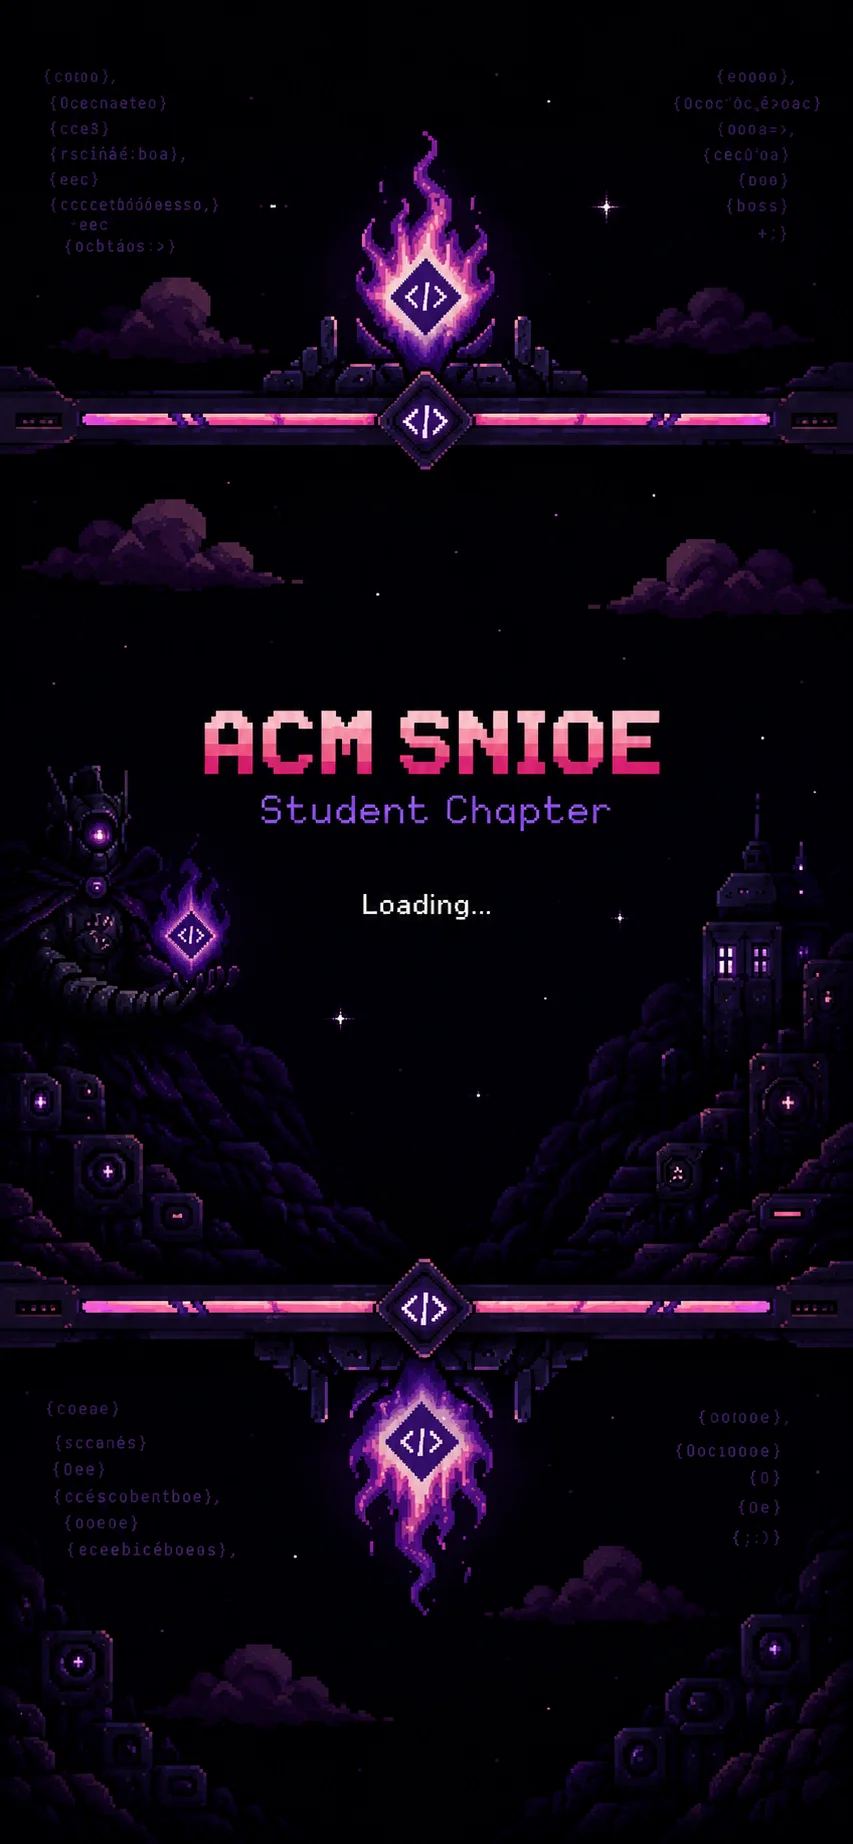
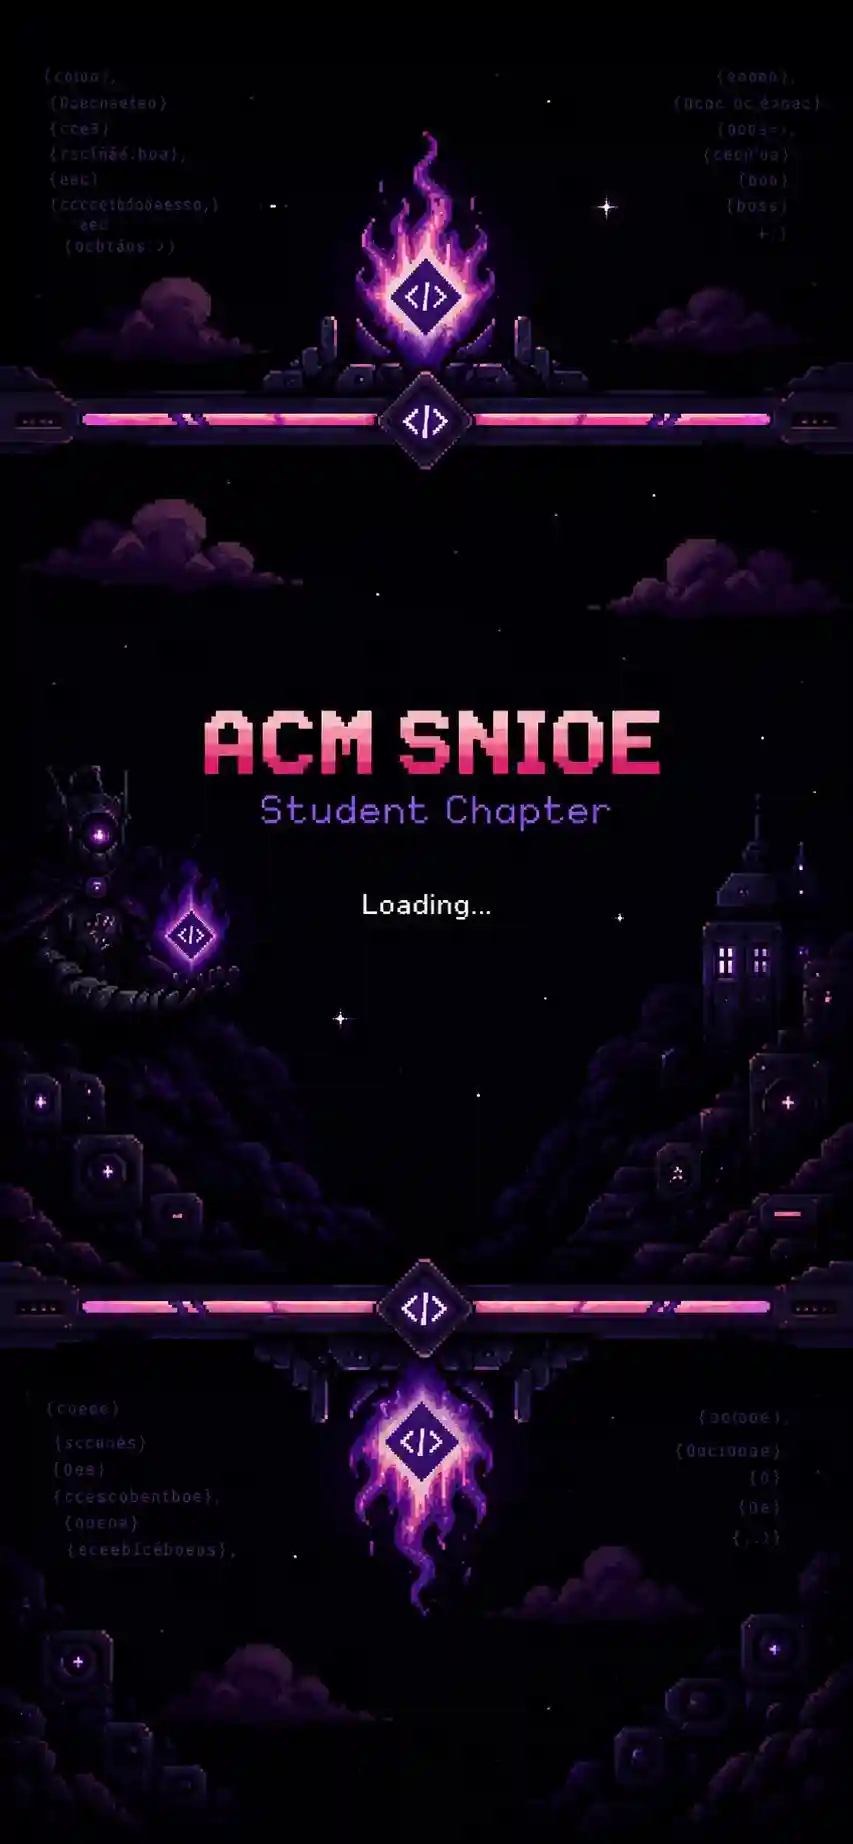
chore: Optimize loading screen assets and adjust delay

diff --git a/backend/compress2.js b/backend/compress2.js
@@ -1,0 +1,15 @@
+const sharp = require('sharp');
+async function run() {
+  await sharp('frontend/public/loadingscreentouse.webp')
+    .resize({ width: Math.floor(1586 / 2), kernel: sharp.kernel.nearest })
+    .webp({ quality: 20 })
+    .toFile('frontend/public/loadingscreentouse_sm.webp');
+    
+  await sharp('frontend/public/loadingscreenphones.webp')
+    .resize({ width: Math.floor(853 / 2), kernel: sharp.kernel.nearest })
+    .webp({ quality: 20 })
+    .toFile('frontend/public/loadingscreenphones_sm.webp');
+  
+  console.log('done');
+}
+run();

diff --git a/backend/compress3.js b/backend/compress3.js
@@ -1,0 +1,13 @@
+const sharp = require('sharp');
+async function run() {
+  await sharp('resources/loadingscreentouse.webp')
+    .webp({ quality: 30 })
+    .toFile('frontend/public/loadingscreentouse.webp');
+    
+  await sharp('resources/loadingscreenphones.webp')
+    .webp({ quality: 30 })
+    .toFile('frontend/public/loadingscreenphones.webp');
+  
+  console.log('done');
+}
+run();

diff --git a/backend/compress4.js b/backend/compress4.js
@@ -1,0 +1,13 @@
+const sharp = require('sharp');
+async function run() {
+  await sharp('resources/loadingscreentouse.webp')
+    .webp({ quality: 10 })
+    .toFile('frontend/public/loadingscreentouse.webp');
+    
+  await sharp('resources/loadingscreenphones.webp')
+    .webp({ quality: 10 })
+    .toFile('frontend/public/loadingscreenphones.webp');
+  
+  console.log('done');
+}
+run();

diff --git a/backend/compress6.js b/backend/compress6.js
@@ -1,0 +1,13 @@
+const sharp = require('sharp');
+async function run() {
+  await sharp('resources/loadingscreentouse.webp')
+    .webp({ quality: 20 })
+    .toFile('frontend/public/loadingscreentouse.webp');
+    
+  await sharp('resources/loadingscreenphones.webp')
+    .webp({ quality: 20 })
+    .toFile('frontend/public/loadingscreenphones.webp');
+  
+  console.log('done');
+}
+run();

diff --git a/backend/compress5.js b/backend/compress5.js
@@ -1,0 +1,13 @@
+const sharp = require('sharp');
+async function run() {
+  await sharp('resources/loadingscreentouse.webp')
+    .webp({ quality: 5 })
+    .toFile('frontend/public/loadingscreentouse.webp');
+    
+  await sharp('resources/loadingscreenphones.webp')
+    .webp({ quality: 5 })
+    .toFile('frontend/public/loadingscreenphones.webp');
+  
+  console.log('done');
+}
+run();

diff --git a/backend/compress.js b/backend/compress.js
@@ -1,0 +1,7 @@
+const sharp = require('sharp');
+async function run() {
+  await sharp('frontend/public/loadingscreentouse.webp').webp({ quality: 30 }).toFile('frontend/public/loadingscreentouse_new.webp');
+  await sharp('frontend/public/loadingscreenphones.webp').webp({ quality: 30 }).toFile('frontend/public/loadingscreenphones_new.webp');
+  console.log('done');
+}
+run();

diff --git a/backend/info.js b/backend/info.js
@@ -1,0 +1,8 @@
+const sharp = require('sharp');
+async function run() {
+  const meta1 = await sharp('frontend/public/loadingscreentouse.webp').metadata();
+  const meta2 = await sharp('frontend/public/loadingscreenphones.webp').metadata();
+  console.log('Desktop:', meta1.width, meta1.height);
+  console.log('Mobile:', meta2.width, meta2.height);
+}
+run();
